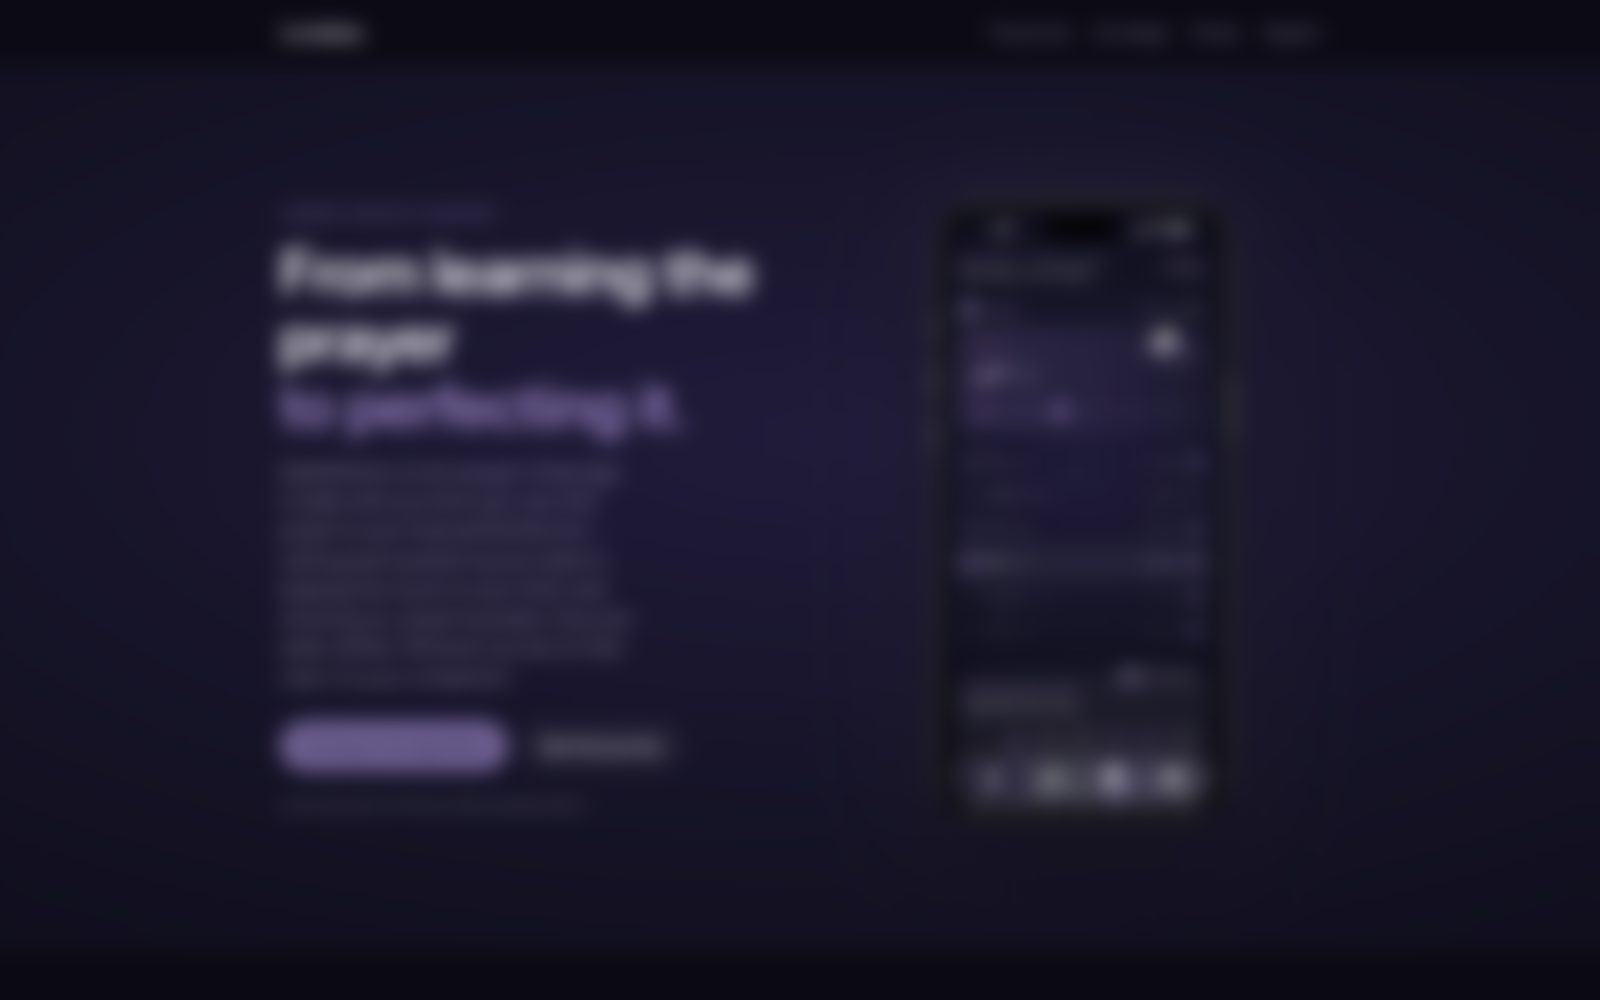
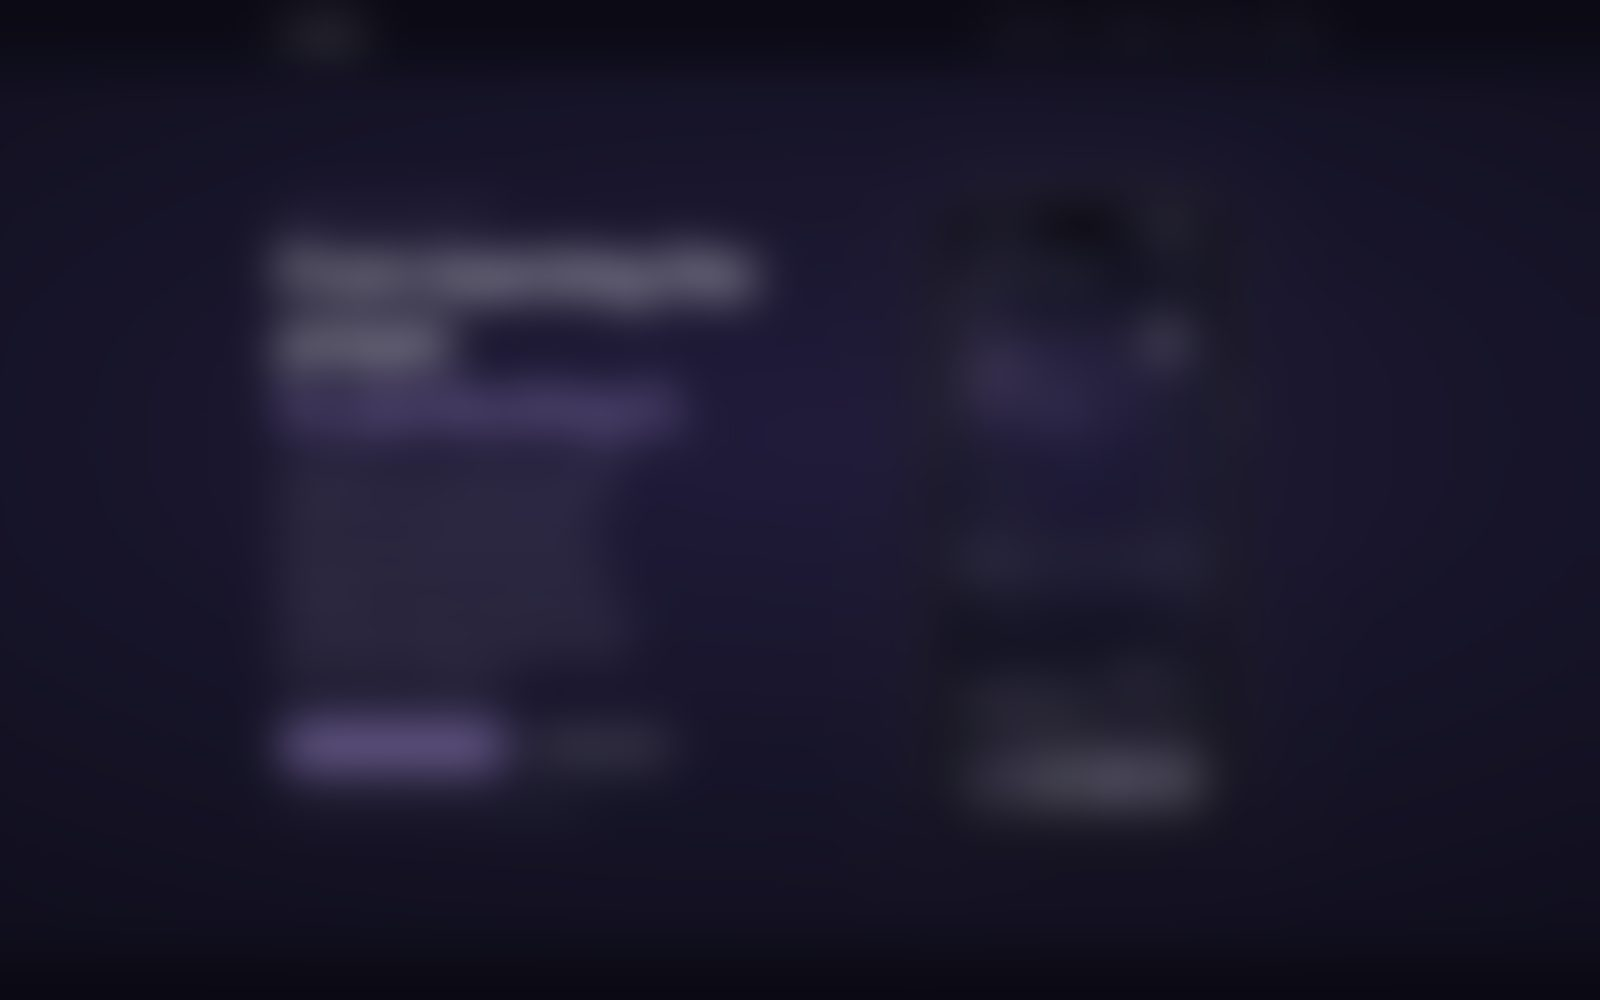
Blur the pre-launch background photo further
Refs xienta/SalahMotion#686

diff --git a/assets/styles.css b/assets/styles.css
@@ -237,14 +237,14 @@ section { padding: 60px 0; }
   display: grid; place-items: center; padding: 24px;
   background:
     linear-gradient(rgba(11, 10, 20, 0.35), rgba(11, 10, 20, 0.35)),
-    url("img/prelaunch-desktop.jpg") center / cover no-repeat,
+    url("img/prelaunch-desktop.jpg?v=2") center / cover no-repeat,
     var(--night-edge);
 }
 @media (max-width: 640px) {
   .prelaunch {
     background:
       linear-gradient(rgba(11, 10, 20, 0.35), rgba(11, 10, 20, 0.35)),
-      url("img/prelaunch-mobile.jpg") center top / cover no-repeat,
+      url("img/prelaunch-mobile.jpg?v=2") center top / cover no-repeat,
       var(--night-edge);
   }
 }

diff --git a/index.html b/index.html
@@ -15,7 +15,7 @@
   <link rel="preconnect" href="https://fonts.googleapis.com" />
   <link rel="preconnect" href="https://fonts.gstatic.com" crossorigin />
   <link href="https://fonts.googleapis.com/css2?family=Amiri&family=Manrope:wght@400;500;600;700;800&display=swap" rel="stylesheet" />
-  <link rel="stylesheet" href="/assets/styles.css?v=16" />
+  <link rel="stylesheet" href="/assets/styles.css?v=17" />
 </head>
 <body>
   <!-- PRE-LAUNCH: this whole page is the coming-soon card. The full site lives on the develop branch. -->

diff --git a/privacy.html b/privacy.html
@@ -15,7 +15,7 @@
   <link rel="preconnect" href="https://fonts.googleapis.com" />
   <link rel="preconnect" href="https://fonts.gstatic.com" crossorigin />
   <link href="https://fonts.googleapis.com/css2?family=Amiri&family=Manrope:wght@400;500;600;700;800&display=swap" rel="stylesheet" />
-  <link rel="stylesheet" href="/assets/styles.css?v=16" />
+  <link rel="stylesheet" href="/assets/styles.css?v=17" />
 </head>
 <body>
   <!-- PRE-LAUNCH: this whole page is the coming-soon card. The full site lives on the develop branch. -->

diff --git a/support.html b/support.html
@@ -15,7 +15,7 @@
   <link rel="preconnect" href="https://fonts.googleapis.com" />
   <link rel="preconnect" href="https://fonts.gstatic.com" crossorigin />
   <link href="https://fonts.googleapis.com/css2?family=Amiri&family=Manrope:wght@400;500;600;700;800&display=swap" rel="stylesheet" />
-  <link rel="stylesheet" href="/assets/styles.css?v=16" />
+  <link rel="stylesheet" href="/assets/styles.css?v=17" />
 </head>
 <body>
   <!-- PRE-LAUNCH: this whole page is the coming-soon card. The full site lives on the develop branch. -->
